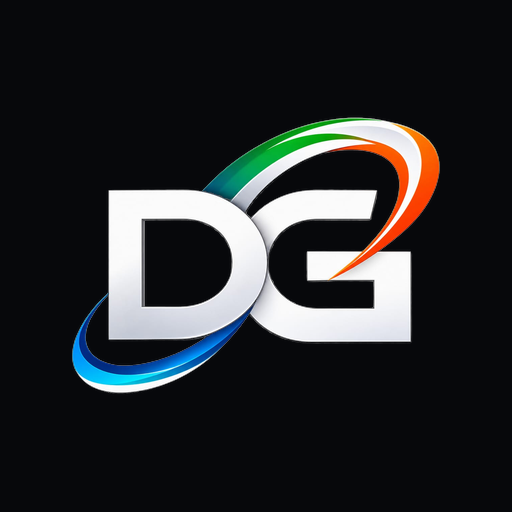
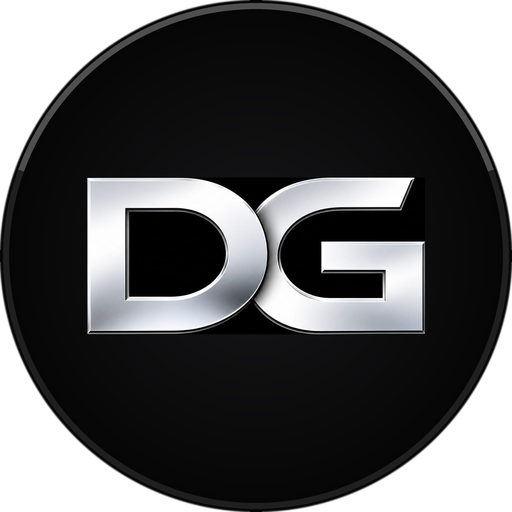
Marca: nuevo logotipo DG metalico con fondo circular

diff --git a/assets/styles.css b/assets/styles.css
@@ -224,8 +224,8 @@ h2{font-size:clamp(24px,3vw,34px);letter-spacing:-.035em;margin:0;font-weight:75
 }
 
 /* ===== Logotipo DG ===== */
-.brand-mark{background:transparent !important;box-shadow:none !important;width:42px;height:42px;border-radius:0}
-.brand-mark img{width:100%;height:100%;object-fit:contain;display:block;filter:drop-shadow(0 4px 14px rgba(255,106,19,.28));transition:transform .5s cubic-bezier(.22,.61,.36,1)}
+.brand-mark{background:transparent !important;box-shadow:none !important;width:44px;height:44px;border-radius:50%;overflow:visible}
+.brand-mark img{width:100%;height:100%;object-fit:contain;display:block;filter:drop-shadow(0 6px 16px rgba(0,0,0,.55));transition:transform .5s cubic-bezier(.22,.61,.36,1)}
 .brand:hover .brand-mark img{transform:rotate(-6deg) scale(1.06)}
 .foot-brand{display:inline-flex;align-items:center;gap:12px}
 .foot-brand img{width:34px;height:34px;object-fit:contain}
